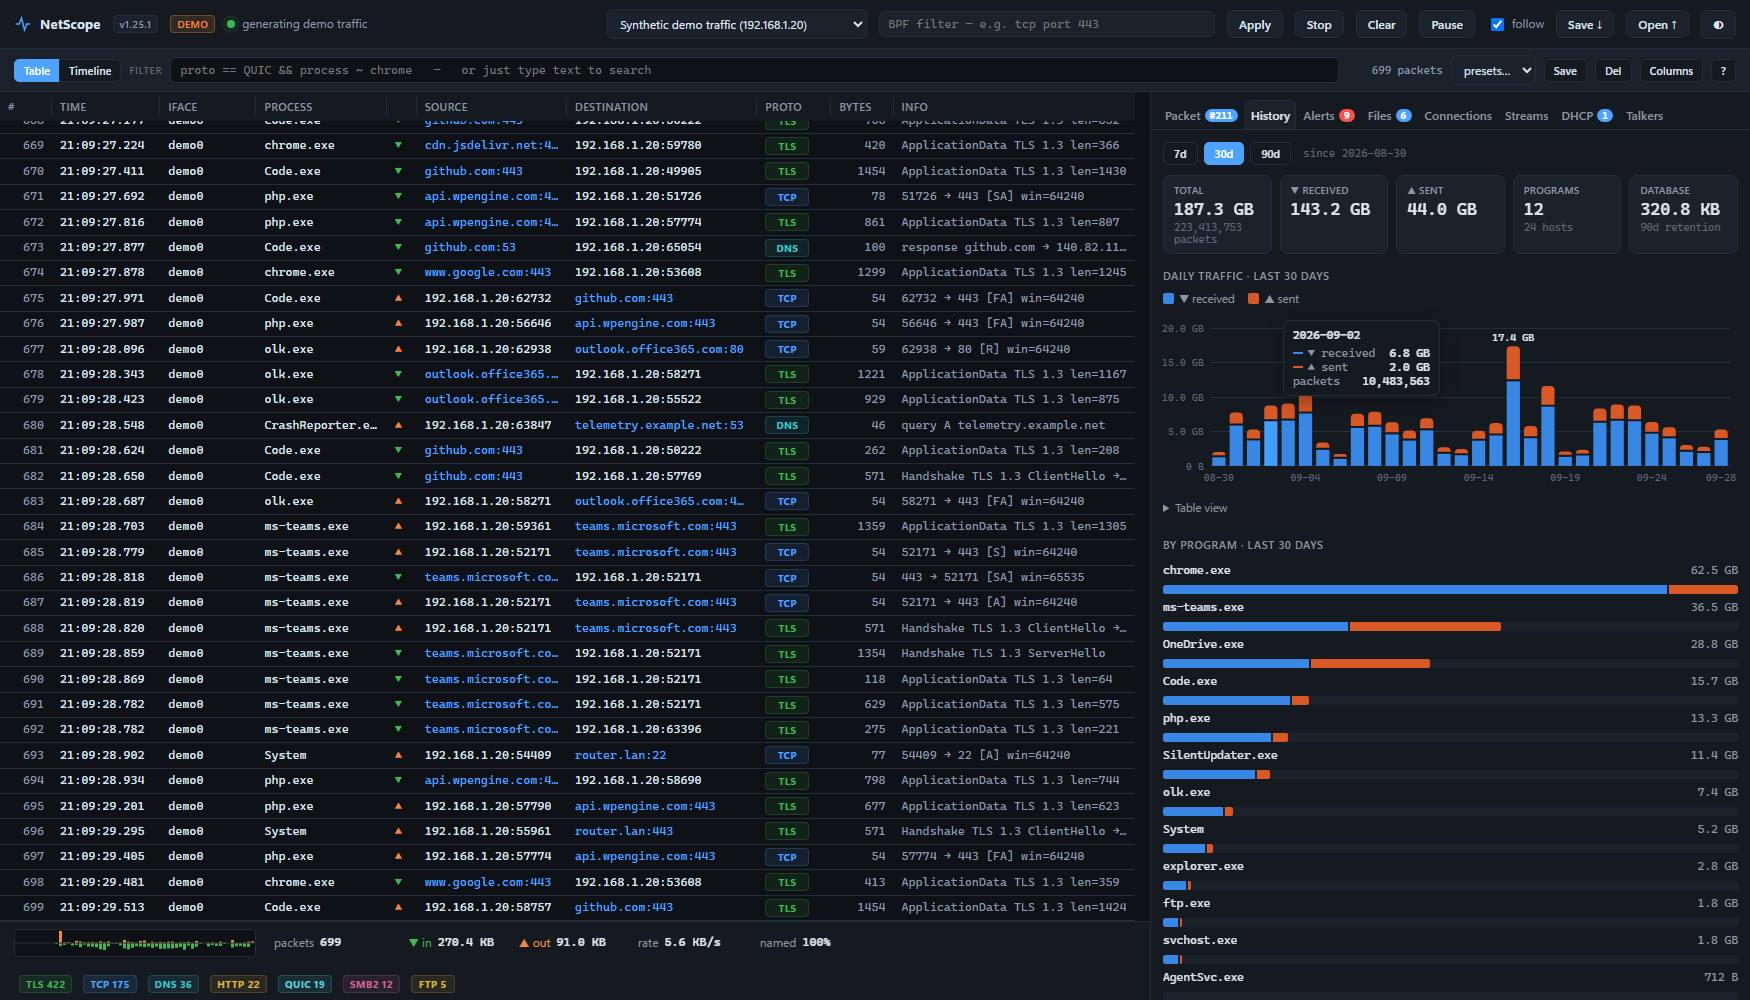
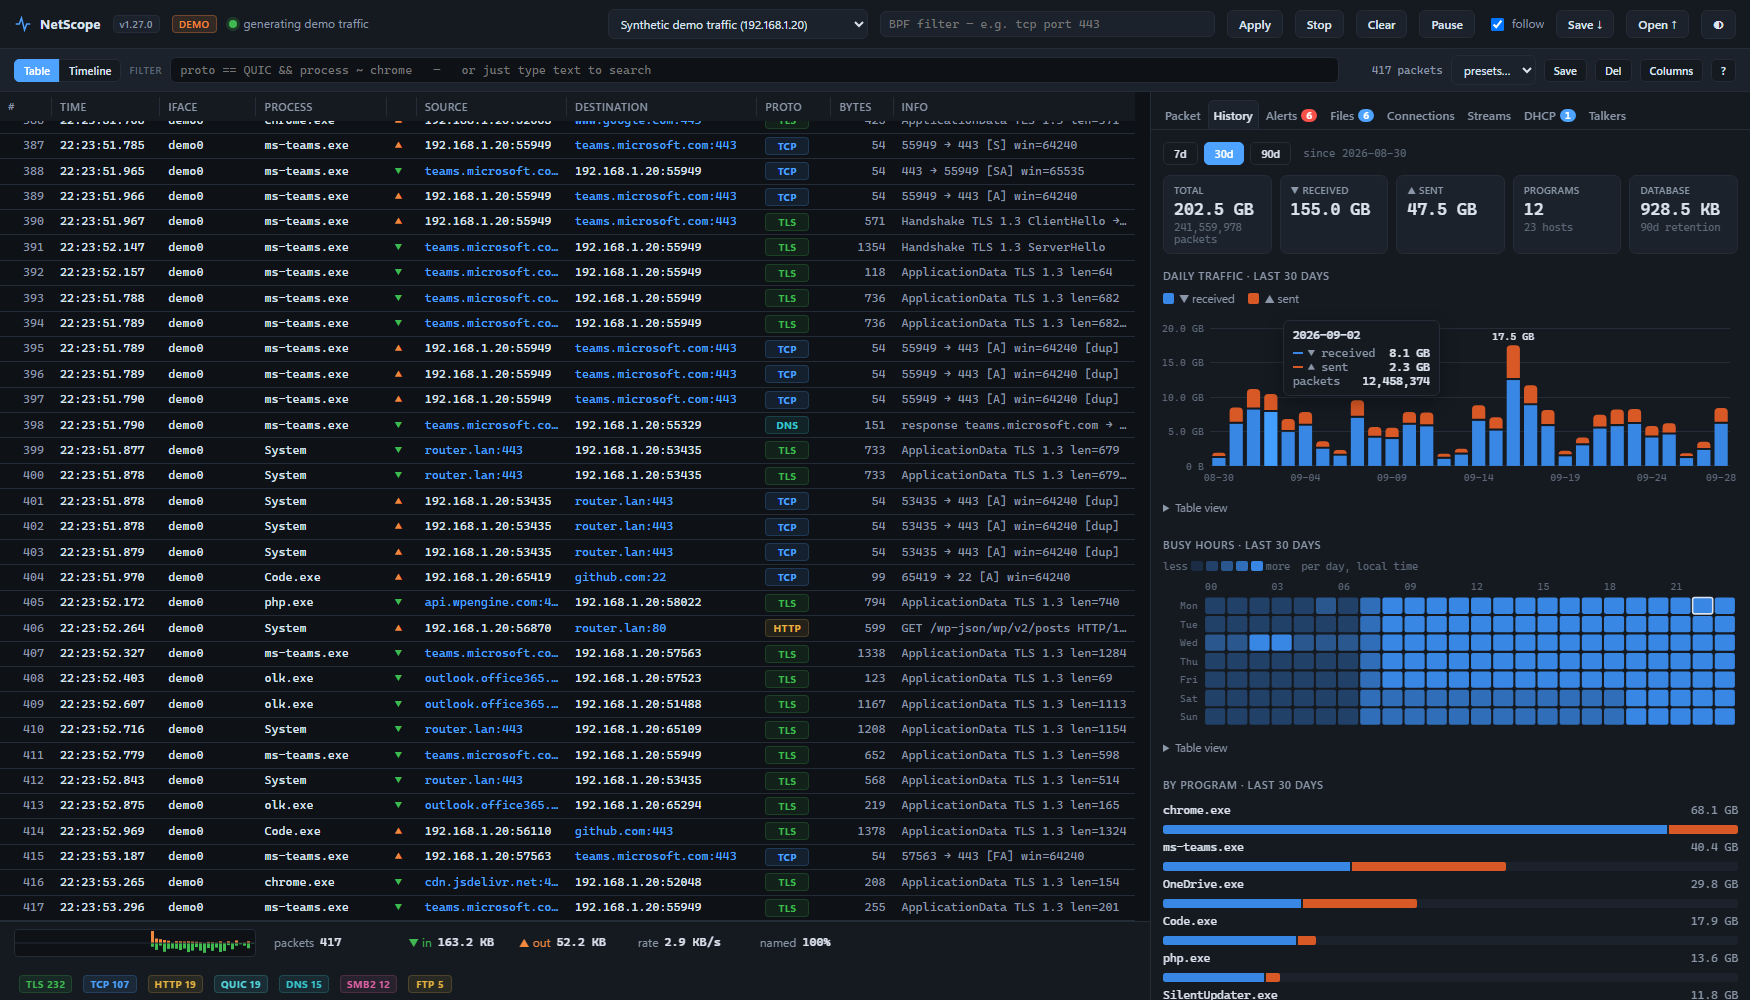
Add a busy-hours heatmap to the History tab (v1.27.0)
Weekday against hour of day, local time, Monday first: the average
traffic for each hour over the selected 7/30/90 days, counted from the
first day history has so a young database isn't diluted. Five shades of
one hue over three decades below the busiest hour, since a log of raw
bytes put 20 MB and 2.5 GB one shade apart and hid the quiet hours. Empty
hours are grey, the current hour is outlined, hover gives exact figures
and the day count, and a table view lists every hour.

HistoryStore.week_hours() feeds it through /api/history. The History
screenshot is retaken with the synthetic history spread across the day.

diff --git a/tests/ui/heatmap_test.js b/tests/ui/heatmap_test.js
@@ -1,0 +1,94 @@
+const { chromium } = require('playwright');
+const fails=[]; const check=(n,c,e='')=>{console.log((c?'PASS  ':'FAIL  ')+n+((!c&&e)?'  -- '+e:''));if(!c)fails.push(n);};
+
+// History's busy-hours heatmap. The demo runs with --no-history, so the
+// data is answered here: busy working hours, quiet nights, an empty hour,
+// and one odd night that should stand out.
+const G = Math.pow(1024,3), M = Math.pow(1024,2);
+let total = 5*G;
+function weekHours(){
+  const cells = [];
+  for (let d = 0; d < 7; d++){
+    const row = [];
+    for (let h = 0; h < 24; h++){
+      let v = (d < 5 && h >= 8 && h <= 18) ? 2*G : h < 7 ? 20*M : 0.3*G;
+      if (h === 5) v = 0;
+      if (d === 2 && h === 3) v = 1.5*G;
+      row.push([Math.round(v*0.75), Math.round(v*0.25)]);
+    }
+    cells.push(row);
+  }
+  return {cells, counts: [4,4,4,4,5,5,4]};
+}
+function history(){
+  const daily = [];
+  for (let i=0;i<30;i++) daily.push({day:'2026-09-'+String(i+1).padStart(2,'0'), bytes_in:G, bytes_out:G/4, packets:10});
+  return {enabled:true, days:30, daily, hourly:[], hosts:[], new_hosts:[], sessions:[], processes:[],
+          exclude:{programs:[],hosts:[]}, week_hours: weekHours(),
+          summary:{bytes_in: total*0.8, bytes_out: total*0.2, packets:1, processes:1, hosts:0, size:1024,
+                   retain_days:90, since:'2026-09-01', path:'C:\\history.db'}};
+}
+
+(async () => {
+  const b = await chromium.launch({ executablePath: process.env.NETSCOPE_CHROMIUM || undefined });
+  const p = await b.newPage({ viewport:{width:1680,height:900} });
+  const errs=[]; p.on('pageerror',e=>errs.push(String(e)));
+  await p.route('**/api/history*', r => r.fulfill({status:200, contentType:'application/json', body: JSON.stringify(history())}));
+  await p.goto(process.argv[2]);
+  await p.waitForSelector('#cw-week svg', {timeout: 30000});
+
+  const g = await p.evaluate(()=>{
+    const cells = [...document.querySelectorAll('#cw-week rect.hm-cell, #cw-week rect.hm-empty')];
+    const op = (d, h) => { const r = cells[d*24+h]; return r.classList.contains('hm-empty') ? 0 : Number(r.getAttribute('fill-opacity')); };
+    const now = new Date(), nd = (now.getDay()+6)%7, nh = now.getHours();
+    const mark = document.querySelector('#cw-week .hm-now'), hit = document.querySelector('#cw-week .hm-hit[data-d="'+nd+'"][data-h="'+nh+'"]');
+    return {n: cells.length, hits: document.querySelectorAll('#cw-week .hm-hit').length,
+            work: op(1, 10), night: op(1, 2), empty: op(1, 5), odd: op(2, 3), evening: op(5, 21),
+            days: [...document.querySelectorAll('#cw-week text')].filter(t=>t.getAttribute('text-anchor')==='end').map(t=>t.textContent),
+            nowAt: mark && Math.abs(Number(mark.getAttribute('x')) - Number(hit.getAttribute('x'))) < 2 &&
+                   Math.abs(Number(mark.getAttribute('y')) - Number(hit.getAttribute('y'))) < 2,
+            title: document.querySelector('#cw-week').closest('.sec').querySelector('h4').textContent};
+  });
+  check('a 7 × 24 grid, under its own heading', g.n===168 && g.hits===168 && g.title==='Busy hours · last 30 days', JSON.stringify(g));
+  check('Monday first, in the browser\'s own day names', g.days.length===7 &&
+        g.days[0]===new Date(2024,0,1).toLocaleDateString([], {weekday:'short'}), JSON.stringify(g.days));
+  check('busy hours are darkest, quiet nights pale, but still shown', g.work===1 && g.night>0 && g.night<=0.36, JSON.stringify(g));
+  check('an hour with nothing is drawn as empty', g.empty===0);
+  check('one odd busy night stands out from the nights around it', g.odd>=0.78 && g.odd>g.night, JSON.stringify(g));
+  check('the current hour is outlined', g.nowAt);
+
+  await p.hover('#cw-week .hm-hit[data-d="2"][data-h="3"]');
+  const tip = await p.evaluate(()=>{ const t = document.getElementById('tip-week');
+    const r = t.getBoundingClientRect(), w = document.getElementById('cw-week').getBoundingClientRect();
+    return {on: t.classList.contains('on'), text: t.textContent, inside: r.left>=w.left-1 && r.right<=w.right+1}; });
+  const wed = await p.evaluate(()=>new Date(2024,0,3).toLocaleDateString([], {weekday:'long'}));
+  check('hovering an hour says which, how much each way, and over how many days',
+        tip.on && tip.text.startsWith(wed+' 03:00–04:00') && /▼ received1\.1 GB/.test(tip.text) &&
+        /▲ sent384\.0 MB/.test(tip.text) && tip.text.endsWith('average of4 '+wed+'s'), tip.text);
+  check('...inside the chart', tip.inside);
+
+  // The 10-second refresh waits while the tooltip is up.
+  total = 9*G;
+  await p.evaluate(()=>loadHistory(true));
+  await p.waitForTimeout(400);
+  check('an automatic refresh waits while the tooltip is showing',
+        await p.evaluate(()=>document.querySelector('#p-history .kpi .v').textContent)==='5.0 GB');
+  await p.mouse.move(5, 5);
+  await p.evaluate(()=>loadHistory(true));
+  await p.waitForFunction(()=>document.querySelector('#p-history .kpi .v').textContent==='9.0 GB');
+
+  // Table view: every value reachable without hovering.
+  await p.click('#cw-week ~ details.tvw summary');
+  const t = await p.evaluate(()=>{ const tb = document.querySelector('#cw-week').parentNode.querySelector('table.tv');
+    const pane = document.getElementById('p-history');
+    return {rows: tb.querySelectorAll('tr').length, cols: tb.querySelector('tr').children.length,
+            r3: [...tb.querySelectorAll('tr')[4].children].map(x=>x.textContent),
+            fits: pane.scrollWidth <= pane.clientWidth}; });
+  check('the table view has an hour per row and a column per day', t.rows===25 && t.cols===8, JSON.stringify(t));
+  check('...with the values', t.r3[0]==='03:00' && t.r3[3]==='1.5 GB' && t.r3[2]==='20.0 MB', JSON.stringify(t.r3));
+  check('...and fits the side panel without scrolling sideways', t.fits);
+
+  check('no page errors', errs.length===0, errs.join(' | '));
+  console.log('\nFAILED:', fails.length?fails:'none');
+  await b.close(); process.exit(fails.length?1:0);
+})();

diff --git a/netscope_ui.py b/netscope_ui.py
@@ -512,6 +512,16 @@ code.k{color:var(--accent);font-family:var(--mono)}
   box-shadow:0 6px 18px rgba(0,0,0,.32);font:11.5px var(--mono);
   white-space:nowrap;opacity:0;transition:opacity .08s}
 .tip.on{opacity:1}
+/* Busy-hours heatmap. Empty hours are drawn, faintly, so "nothing" reads as
+   a measured nothing rather than a gap in the chart. */
+.hm-empty{fill:var(--grid)}
+.hm-cell{fill:var(--series-in)}
+.hm-now{fill:none;stroke:var(--fg);stroke-width:1.5}
+.hm-hit{fill:transparent;cursor:crosshair}
+.hm-hit:hover,.hm-hit:focus{stroke:var(--fg);stroke-width:1;outline:none}
+.hmkey{display:flex;align-items:center;gap:3px;color:var(--faint);font:10.5px var(--mono);
+  margin:2px 0 8px}
+.hmkey i{display:inline-block;width:12px;height:10px;border-radius:2px;background:var(--series-in)}
 
 /* Transient confirmation. Downloads used to happen in complete silence — the
    anchor is clicked, the browser takes over, and nothing in the page changes.
@@ -1862,6 +1872,12 @@ function renderHistory(d){
          {h:'Packets', n:1, f:r=>Number(r.packets).toLocaleString()}]) +
        '</div>';
 
+  if (d.week_hours){
+    h += '<div class="sec"><h4>Busy hours · last '+d.days+' days</h4>' + weekHoursKey() +
+         '<div class="chartwrap" id="cw-week">' + weekHoursChart(d.week_hours) +
+         '<div class="tip" id="tip-week"></div></div>' + weekHoursTable(d.week_hours) + '</div>';
+  }
+
   if (d.processes.length){
     h += '<div class="sec"><h4>By program · last '+d.days+' days</h4>' +
          hbars(d.processes, 'name') +
@@ -1974,6 +1990,96 @@ function renderHistory(d){
       control({action:'history_wipe'}).then(() => { alertLog = null; refreshTab('history'); });
   };
   wireDailyHover(daily);
+  if (d.week_hours) wireWeekHours(d.week_hours);
+}
+
+/* ---------------- busy hours ----------------
+   Hour of day against weekday, averaged per day over the selected range, in
+   local time. The point is the shape of a normal week, so traffic at an hour
+   this machine is usually quiet stands out. One hue in five steps, on a log
+   scale like the Timeline's: a linear scale turns every hour outside the
+   busiest few into the same pale square, and the quiet hours are the ones
+   worth reading. Exact values are in the tooltip and the table view. */
+const HM_STEPS = [.18, .36, .56, .78, 1];
+function hmDayName(i, style){
+  // 2024-01-01 was a Monday.
+  return new Date(2024, 0, 1 + i).toLocaleDateString([], {weekday: style || 'short'});
+}
+// Five steps over three decades below the busiest hour. A log of the raw
+// byte count put 20 MB and 2.5 GB one shade apart, which hid exactly the
+// quiet hours this is for; anything under a thousandth of the peak still
+// gets the palest shade rather than disappearing.
+const HM_DECADES = 3;
+function hmLevel(v, max){
+  if (!(v > 0)) return 0;
+  const f = (Math.log10(v) - Math.log10(max) + HM_DECADES) / HM_DECADES;
+  return Math.max(1, Math.min(HM_STEPS.length, Math.ceil(f * HM_STEPS.length)));
+}
+function weekHoursChart(w){
+  const W = 560, L = 40, T = 16, CW = (W - L - 2) / 24, CH = 18, G = 2;
+  const H = T + 7 * CH + 2;
+  let max = 0;
+  for (const row of w.cells) for (const c of row) max = Math.max(max, c[0] + c[1]);
+  const now = new Date(), nowD = (now.getDay() + 6) % 7, nowH = now.getHours();
+  let g = '';
+  for (let h = 0; h < 24; h += 3)
+    g += '<text class="axlbl" x="' + (L + h * CW + 1) + '" y="10">' + String(h).padStart(2, '0') + '</text>';
+  for (let d = 0; d < 7; d++){
+    const y = T + d * CH;
+    g += '<text class="axlbl" x="' + (L - 6) + '" y="' + (y + CH / 2 + 3.5) + '" text-anchor="end">' +
+         esc(hmDayName(d)) + '</text>';
+    for (let h = 0; h < 24; h++){
+      const x = L + h * CW, v = w.cells[d][h][0] + w.cells[d][h][1], lv = hmLevel(v, max);
+      g += '<rect class="' + (lv ? 'hm-cell' : 'hm-empty') + '" x="' + (x + G / 2) + '" y="' + (y + G / 2) +
+           '" width="' + (CW - G) + '" height="' + (CH - G) + '" rx="2"' +
+           (lv ? ' fill-opacity="' + HM_STEPS[lv - 1] + '"' : '') + '/>';
+    }
+  }
+  // Where "now" falls, so the pattern can be read against the present.
+  g += '<rect class="hm-now" x="' + (L + nowH * CW + G / 2) + '" y="' + (T + nowD * CH + G / 2) +
+       '" width="' + (CW - G) + '" height="' + (CH - G) + '" rx="2"/>';
+  for (let d = 0; d < 7; d++) for (let h = 0; h < 24; h++)
+    g += '<rect class="hm-hit" data-d="' + d + '" data-h="' + h + '" x="' + (L + h * CW) + '" y="' +
+         (T + d * CH) + '" width="' + CW + '" height="' + CH + '"/>';
+  return '<svg viewBox="0 0 ' + W + ' ' + H + '" role="img" aria-label="Average traffic by weekday and hour">' +
+         g + '</svg>';
+}
+function weekHoursKey(){
+  return '<div class="hmkey">less ' + HM_STEPS.map(o => '<i style="opacity:' + o + '"></i>').join('') +
+         ' more <span style="margin-left:8px">per day, local time</span></div>';
+}
+function weekHoursTable(w){
+  const rows = [];
+  for (let h = 0; h < 24; h++) rows.push({h, v: w.cells.map(r => r[h][0] + r[h][1])});
+  return tableView(rows, [{h: 'Hour', f: r => String(r.h).padStart(2, '0') + ':00'}]
+    .concat([0, 1, 2, 3, 4, 5, 6].map(d => ({h: hmDayName(d), n: 1, f: r => r.v[d] ? hb(r.v[d]) : '–'}))));
+}
+function wireWeekHours(w){
+  const wrap = $('cw-week'), tip = $('tip-week');
+  if (!wrap || !tip) return;
+  wrap.querySelectorAll('.hm-hit').forEach(hit => {
+    const d = Number(hit.dataset.d), h = Number(hit.dataset.h), c = w.cells[d][h], n = w.counts[d];
+    const show = ev => {
+      const hh = x => String(x % 24).padStart(2, '0') + ':00';
+      tip.innerHTML = '<div class="th">' + esc(hmDayName(d, 'long')) + ' ' + hh(h) + '–' + hh(h + 1) + '</div>' +
+        '<div class="tr"><span><span class="sw" style="background:var(--series-in)"></span>▼ received</span><b>' +
+          esc(hb(c[0])) + '</b></div>' +
+        '<div class="tr"><span><span class="sw" style="background:var(--series-out)"></span>▲ sent</span><b>' +
+          esc(hb(c[1])) + '</b></div>' +
+        '<div class="tr"><span>average of</span><b>' + n + ' ' + esc(hmDayName(d, 'long')) + (n === 1 ? '' : 's') + '</b></div>';
+      tip.classList.add('on');
+      const box = wrap.getBoundingClientRect(), r = hit.getBoundingClientRect();
+      const tw = tip.offsetWidth, x = r.left - box.left + r.width / 2;
+      tip.style.left = Math.max(4, Math.min(box.width - tw - 4, x > box.width / 2 ? x - tw - 10 : x + 10)) + 'px';
+      tip.style.top = Math.max(0, r.bottom - box.top + 4) + 'px';
+    };
+    const hide = () => tip.classList.remove('on');
+    hit.addEventListener('pointerenter', show);
+    hit.addEventListener('pointerleave', hide);
+    hit.addEventListener('focus', show);
+    hit.addEventListener('blur', hide);
+    hit.setAttribute('tabindex', '0');
+  });
 }
 
 function wireDailyHover(rows){
@@ -3243,7 +3349,7 @@ function loadHistory(auto){
   return api('/api/history?days='+histDays).then(r=>r.text()).then(t => {
     if (seq !== histSeq) return;
     const key = t + JSON.stringify((lastStatus && lastStatus.autostart) || null);
-    if (auto && (key === histSeen || document.querySelector('#tip-daily.on') || histSelecting())) return;
+    if (auto && (key === histSeen || document.querySelector('#p-history .tip.on') || histSelecting())) return;
     const d = JSON.parse(t);
     histSeen = key;
     redrawHistory(d);

diff --git a/tests/unit/test_week_hours.py b/tests/unit/test_week_hours.py
@@ -1,0 +1,65 @@
+import os, sys
+sys.path.insert(0, os.path.join(os.path.dirname(os.path.abspath(__file__)),
+                                "..", ".."))
+import shutil, tempfile
+from datetime import datetime, timedelta
+import netscope_history as H
+
+fails=[]
+def check(n,c,e=""):
+    print(("PASS  " if c else "FAIL  ")+n+(("  -- "+str(e)) if e and not c else ""))
+    if not c: fails.append(n)
+
+tmp = tempfile.mkdtemp(prefix="ns-wh-")
+h = H.HistoryStore(path=os.path.join(tmp, "h.db"))
+
+def put(day, hour, bi, bo=0, proc="p.exe"):
+    with h._db_lock:
+        h._db.execute("INSERT INTO usage VALUES (?,?,?,?,?,?) ON CONFLICT(day,hour,process) "
+                      "DO UPDATE SET bytes_in=bytes_in+excluded.bytes_in, "
+                      "bytes_out=bytes_out+excluded.bytes_out",
+                      (day.strftime("%Y-%m-%d"), hour, proc, bi, bo, 1))
+        h._db.commit()
+
+today = datetime.now().date()
+w = h.week_hours(30)
+check("an empty database gives an empty week, not an error",
+      len(w["cells"]) == 7 and all(len(r) == 24 for r in w["cells"]) and
+      sum(c[0] + c[1] for r in w["cells"] for c in r) == 0)
+
+# Four weeks of data, every Monday at 09:00 and every Sunday at 23:00.
+start = today - timedelta(days=27)
+d = start
+while d <= today:
+    if d.weekday() == 0:
+        put(d, 9, 1000, 100)
+    if d.weekday() == 6:
+        put(d, 23, 50, 0)
+        put(d, 23, 30, 0, proc="q.exe")      # two programs in one hour add up
+    d += timedelta(days=1)
+w = h.week_hours(30)
+mondays = w["counts"][0]
+check("Monday comes first", w["cells"][0][9] == [1000, 100], w["cells"][0][9])
+check("Sunday comes last (SQLite counts from Sunday)", w["cells"][6][23] == [80, 0], w["cells"][6][23])
+check("it is an average per day, not a total",
+      w["cells"][0][9][0] == 1000 and mondays == 4, (w["cells"][0][9], mondays))
+check("nothing lands where there was nothing",
+      sum(c[0] + c[1] for i, r in enumerate(w["cells"]) for j, c in enumerate(r)
+          if (i, j) not in ((0, 9), (6, 23))) == 0)
+first = min(x for x in (start + timedelta(days=i) for i in range(7)) if x.weekday() in (0, 6))
+check("the counts cover only days since the first recorded one",
+      sum(w["counts"]) == (today - first).days + 1, (w["counts"], first))
+
+# One busy day long ago doesn't count against a 7-day view.
+put(today - timedelta(days=60), 9, 10 ** 9)
+w7 = h.week_hours(7)
+check("a shorter range averages over fewer days", sum(w7["counts"]) == 7 and
+      w7["cells"][0][9][0] == 1000, (w7["counts"], w7["cells"][0][9]))
+w90 = h.week_hours(90)
+check("...and a longer one over every day from the first record",
+      sum(w90["counts"]) == 61, w90["counts"])
+
+h._db.close()
+shutil.rmtree(tmp, ignore_errors=True)
+print("\nFAILED:", fails if fails else "none")
+sys.exit(1 if fails else 0)

diff --git a/netscope_history.py b/netscope_history.py
@@ -661,6 +661,35 @@ class HistoryStore:
         return [rows.get(h, {"hour": h, "bytes_in": 0, "bytes_out": 0, "packets": 0})
                 for h in range(24)]
 
+    def week_hours(self, days=30):
+        """
+        Average traffic per hour of each weekday, local time, Monday first:
+        {"cells": 7 rows of 24 [bytes_in, bytes_out], "counts": how many of
+        each weekday went into the average}.
+
+        An average per day, not a sum: over 30 days some weekdays occur five
+        times and others four, and a sum would make those look busier. Only
+        days from the first one recorded count, so a database a week old
+        isn't averaged over a month of days it never saw.
+        """
+        wanted = self._range_days(days)
+        first = self._q("SELECT MIN(day) AS d FROM usage")
+        since = max(wanted[0], (first[0]["d"] if first and first[0]["d"] else wanted[-1]))
+        counts = [0] * 7
+        for d in wanted:
+            if d >= since:
+                counts[datetime.strptime(d, "%Y-%m-%d").weekday()] += 1
+        cells = [[[0, 0] for _ in range(24)] for _ in range(7)]
+        for r in self._q(
+                "SELECT CAST(strftime('%w', day) AS INTEGER) AS wd, hour, "
+                "SUM(bytes_in) AS bi, SUM(bytes_out) AS bo FROM usage "
+                "WHERE day >= ? GROUP BY wd, hour", (since,)):
+            wd = (r["wd"] + 6) % 7          # SQLite counts from Sunday
+            n = counts[wd] or 1
+            if 0 <= r["hour"] < 24:
+                cells[wd][r["hour"]] = [round(r["bi"] / n), round(r["bo"] / n)]
+        return {"cells": cells, "counts": counts}
+
     def by_process(self, days=30, limit=15):
         since = self._range_days(days)[0]
         return self._q(

diff --git a/netscope.py b/netscope.py
@@ -47,7 +47,7 @@ from datetime import datetime
 from http.server import BaseHTTPRequestHandler, ThreadingHTTPServer
 from urllib.parse import urlparse, parse_qs
 
-VERSION = "1.26.0"
+VERSION = "1.27.0"
 
 # How many packets to keep in the live ring buffer.
 RING_SIZE = 20000
@@ -2685,6 +2685,7 @@ class Handler(BaseHTTPRequestHandler):
                 "summary": h.summary(),
                 "daily": h.daily(days),
                 "hourly": h.hourly(),
+                "week_hours": h.week_hours(days),
                 "processes": h.by_process(days, 15),
                 "hosts": h.top_hosts(15),
                 "new_hosts": h.new_hosts(7, 20),

diff --git a/README.md b/README.md
@@ -1,6 +1,6 @@
 # NetScope
 
-**Version 1.26.0**
+**Version 1.27.0**
 
 A live packet monitor for Windows with a browser dashboard. It captures every
 frame going in and out of your machine and shows you which process sent it,
@@ -490,13 +490,25 @@ with `--no-history`).
 
 The History tab — the one the dashboard opens on — shows totals as a KPI row,
 daily traffic as a stacked column chart over 7, 30 or 90 days (its scale
-follows your busiest day, so the tallest column fills most of the chart), per-program and per-host breakdowns, hosts first
+follows your busiest day, so the tallest column fills most of the chart), a
+**busy hours** heatmap, per-program and per-host breakdowns, hosts first
 contacted in the last week, how many alerts were logged (the alerts
 themselves are on the Alerts tab, under **Past 30 days**) and recent
 sessions. Every chart has
 a table view underneath it, so no value is only reachable by hovering. While
 it's showing it refreshes itself every 10 seconds, holding off while you
 have text in it selected.
+
+**Busy hours** is a grid of weekday against hour of day, in local time. Each
+square is the average traffic for that hour on that weekday, over the same
+7, 30 or 90 days as the rest of the tab, counted only from the first day
+history has. Darker is busier, on a log scale covering three orders of
+magnitude below the busiest hour, so quiet hours are still told apart from
+each other and from an hour with nothing at all (drawn grey). It shows what
+a normal week looks like on this machine, which makes traffic at an hour
+that is usually quiet easy to spot. The current hour is outlined. Hover a
+square for the exact figures and how many days they average; the table view
+underneath lists every hour.
 
 Writes never touch the capture path: packets accumulate in memory and a writer
 thread flushes to disk every ten seconds. If the database can't be opened,
@@ -822,6 +834,13 @@ names.
 ---
 
 ## Version history
+
+**1.27.0** — New: a **Busy hours** heatmap on the History tab, weekday
+against hour of day, showing the average traffic for each hour over the
+selected 7, 30 or 90 days. It shows the shape of a normal week on the
+machine, so traffic at a usually quiet hour stands out. It uses a log scale,
+so quiet hours are still distinct, and outlines the current hour. Hovering
+gives exact figures, and there's a table view.
 
 **1.26.0** — New alert: **Scheduled check-in**. When a program starts
 contacting a host on a fixed schedule, NetScope says so. It uses the same test
